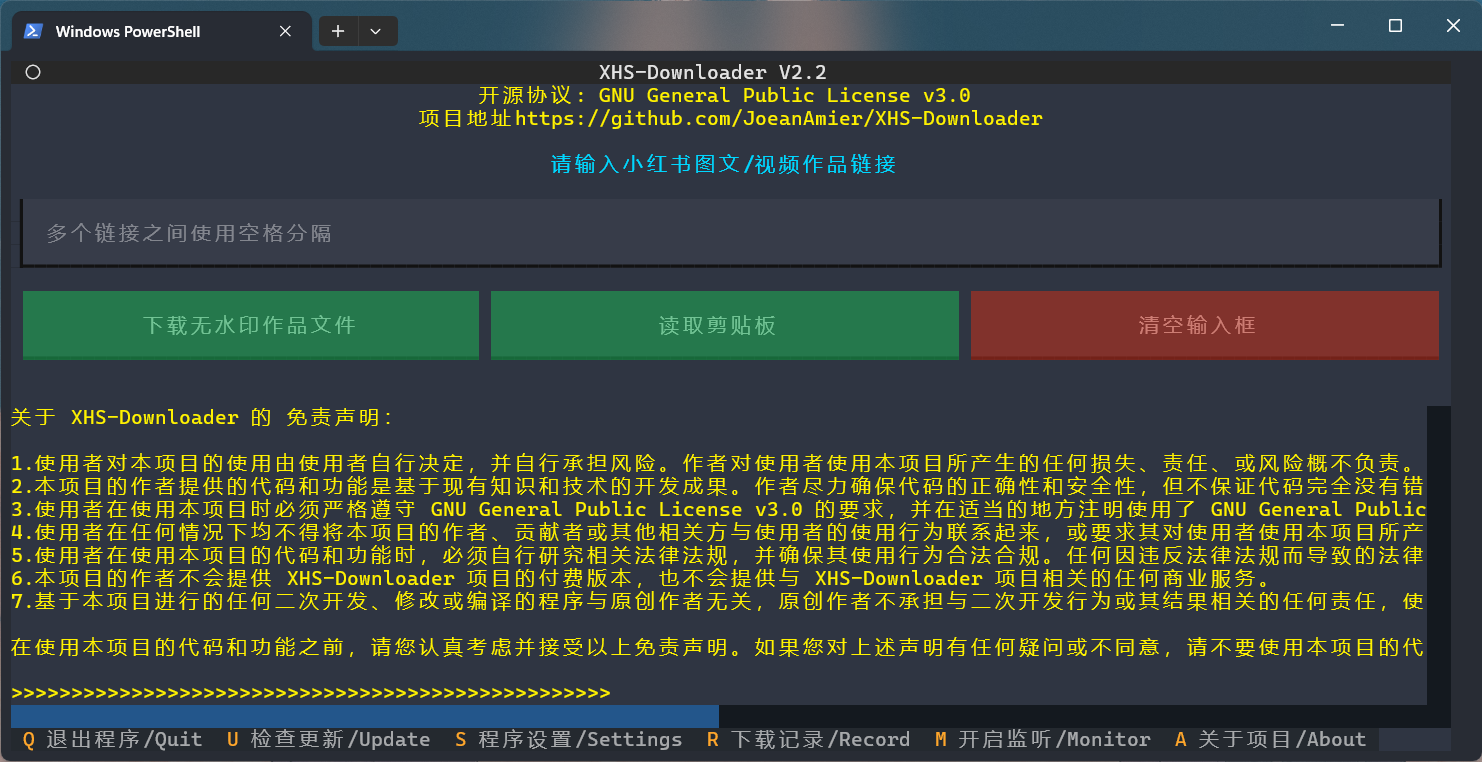
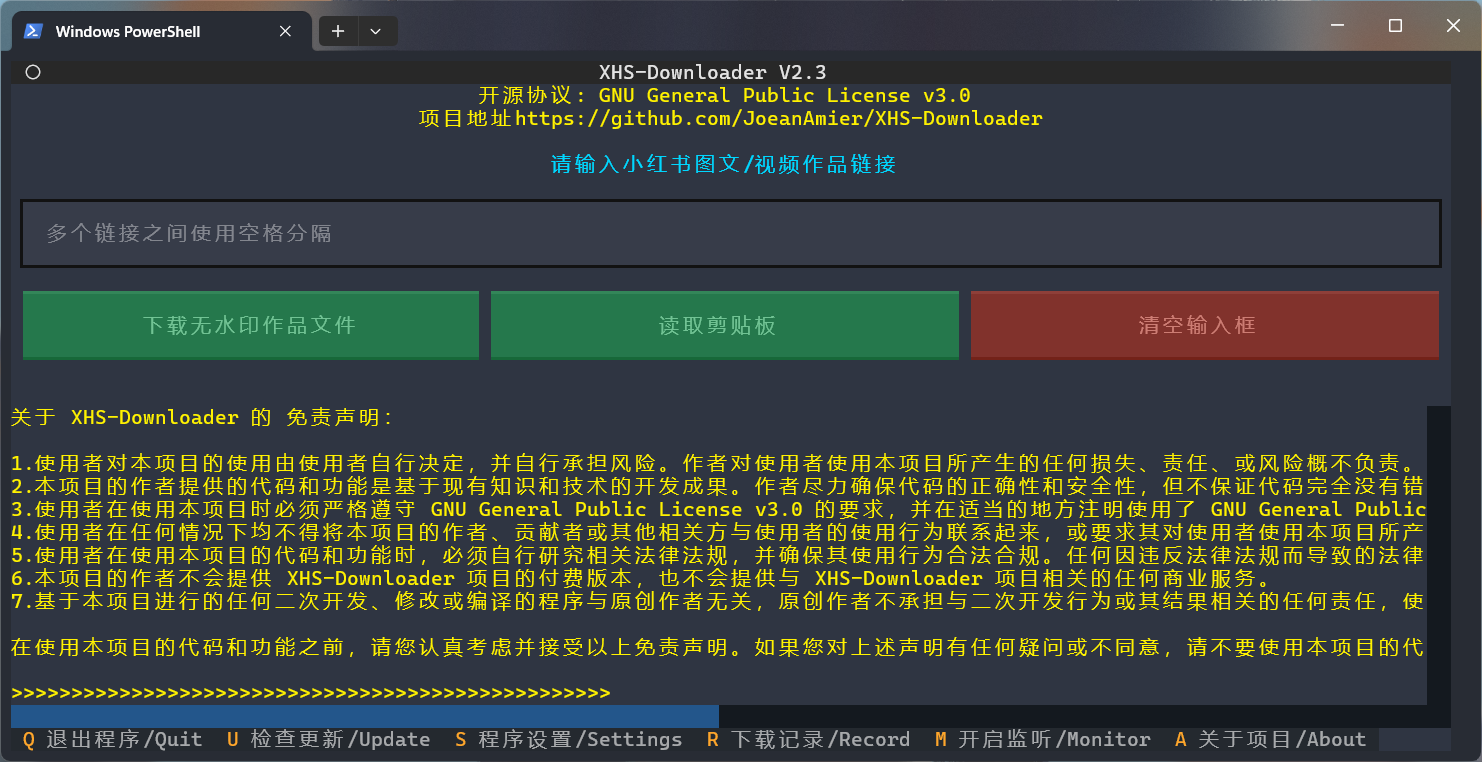
feat: 发布 2.3 版本

diff --git a/source/expansion/browser.py b/source/expansion/browser.py
@@ -31,14 +31,15 @@ class BrowserCookie:
         "Firefox": (firefox, "Linux, macOS, Windows"),
         "LibreWolf": (librewolf, "Linux, macOS, Windows"),
     }
-    TIP = "Windows 系统需要以管理员身份运行程序才能读取 Chromium、Chrome、Edge 浏览器 Cookie！"
 
     @classmethod
     def run(cls, domains: list[str], console: Console = None, ) -> str:
         console = console or Console()
         options = "\n".join(f"{i}. {k}: {v[1]}" for i, (k, v) in enumerate(cls.SUPPORT_BROWSER.items(), start=1))
         if browser := console.input(
-                f"读取指定浏览器的 Cookie 并写入配置文件；注意：{cls.TIP}\n{options}\n请输入浏览器名称或序号：", ):
+                f"读取指定浏览器的 Cookie 并写入配置文件\n"
+                f"Windows 系统需要以管理员身份运行程序才能读取 Chromium、Chrome、Edge 浏览器 Cookie！\n"
+                f"{options}\n请输入浏览器名称或序号：", ):
             return cls.get(browser, domains, console, )
         console.print("未选择浏览器！")
 

diff --git a/source/module/static.py b/source/module/static.py
@@ -2,7 +2,7 @@ from pathlib import Path
 
 VERSION_MAJOR = 2
 VERSION_MINOR = 3
-VERSION_BETA = True
+VERSION_BETA = False
 ROOT = Path(__file__).resolve().parent.parent.parent
 PROJECT = f"XHS-Downloader V{VERSION_MAJOR}.{
 VERSION_MINOR}{" Beta" if VERSION_BETA else ""}"
@@ -65,4 +65,4 @@ FILE_SIGNATURES: tuple[tuple[int, bytes, str,], ...] = (
 )
 FILE_SIGNATURES_LENGTH = max(offset + len(signature) for offset, signature, _ in FILE_SIGNATURES)
 
-MAX_WORKERS: int = 3
+MAX_WORKERS: int = 4

diff --git a/source/module/translator.py b/source/module/translator.py
@@ -1,6 +1,6 @@
 from gettext import translation
 
-from source.module import ROOT
+from ..module import ROOT
 
 __all__ = ["Translate"]
 

diff --git a/README_EN.md b/README_EN.md
@@ -14,7 +14,6 @@
 </div>
 <br>
 <p>🔥 <b>Xiaohongshu Link Extraction/Content Collection Tool</b>：Extract account-published, favorited, and liked content links; extract search result content links and user links; collect Xiaohongshu content information; extract Xiaohongshu content download addresses; download Xiaohongshu watermark-free content files!</p>
-<p><strong>⚠ 2024/9/24: Due to rule updates on Xiaohongshu, there is a risk of account suspension for user scripts with version numbers lower than <code>1.7.1</code> Please update the user scripts in a timely manner before using them!</strong></p>
 <p>⭐ This project is completely free and open-source, with no paid features. Please do not be deceived!</p>
 <p>⭐ Due to the author's limited energy, I was unable to update the English document in a timely manner, and the content may have become outdated, partial translation is machine translation, the translation result may be incorrect, Suggest referring to Chinese documentation. If you want to contribute to translation, we warmly welcome you.</p>
 <h1>📑 Project Features</h1>

diff --git a/static/Release_Notes.md b/static/Release_Notes.md
@@ -1,13 +1,14 @@
 **项目更新内容：**
 
 1. 修复下载文件频繁提示失败的问题
-2. 优化从浏览器读取 Cookie 功能
+2. 更新从浏览器读取 Cookie 功能
 3. 修复文件名称过长报错的问题
 4. 优化已下载文件判断逻辑
-5. 更新文件下载并发数量
-6. 新增文件名称长度限制
-7. 优化文件后缀处理逻辑
-8. 优化代理测试逻辑
+5. 新增文件名称长度限制
+6. 优化文件后缀处理逻辑
+7. 优化代理测试逻辑
+8. 修复其他已知问题
+9. 优化代码运行逻辑
 
 <p><strong>旧版本升级后首次运行请删除配置文件 <code>settings.json</code>，删除后重新运行程序会自动生成新的默认配置文件！</strong></p>
 

diff --git a/README.md b/README.md
@@ -14,7 +14,6 @@
 </div>
 <br>
 <p>🔥 <b>小红书链接提取/作品采集工具</b>：提取账号发布、收藏、点赞、专辑作品链接；提取搜索结果作品链接、用户链接；采集小红书作品信息；提取小红书作品下载地址；下载小红书无水印作品文件！</p>
-<p><strong>⚠ 2024/9/24: 由于小红书规则更新，使用版本号低于 <code>1.7.1</code> 的用户脚本有封号风险，请及时更新用户脚本后再使用！</strong></p>
 <p>⭐ 本项目完全免费开源，无任何收费功能，请勿上当受骗！</p>
 <h1>📑 项目功能</h1>
 <ul><b>程序功能</b>
